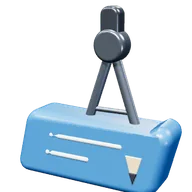
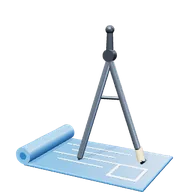
Símbolos modelados en 3D real: laptop, compás sobre plano, corbata, campana de Gauss, palmera en isla y casa

diff --git a/datos/simbolos3d/render.html b/datos/simbolos3d/render.html
@@ -1,0 +1,79 @@
+<!doctype html><meta charset="utf-8">
+<body style="margin:0;background:transparent">
+<script type="importmap">{"imports":{"three":"./node_modules/three/build/three.module.js","three/addons/":"./node_modules/three/examples/jsm/"}}</script>
+<script type="module">
+import * as THREE from 'three';
+import {SVGLoader} from 'three/addons/loaders/SVGLoader.js';
+import {RoomEnvironment} from 'three/addons/environments/RoomEnvironment.js';
+import {MODELS,kit} from './models.js';
+const SZ=320;
+const renderer=new THREE.WebGLRenderer({antialias:true,alpha:true,preserveDrawingBuffer:true});
+renderer.setPixelRatio(1);renderer.setSize(SZ,SZ);renderer.setClearColor(0x000000,0);
+renderer.outputColorSpace=THREE.SRGBColorSpace;renderer.toneMapping=THREE.ACESFilmicToneMapping;renderer.toneMappingExposure=1.25;
+renderer.shadowMap.enabled=true;renderer.shadowMap.type=THREE.PCFSoftShadowMap;
+document.body.appendChild(renderer.domElement);
+const scene=new THREE.Scene();
+const pm=new THREE.PMREMGenerator(renderer);scene.environment=pm.fromScene(new RoomEnvironment(),0.04).texture;
+const key=new THREE.DirectionalLight(0xffffff,2.2);key.position.set(-60,90,120);key.castShadow=true;
+key.shadow.mapSize.set(1024,1024);Object.assign(key.shadow.camera,{left:-80,right:80,top:80,bottom:-80,near:1,far:400});key.shadow.bias=-0.0008;key.shadow.radius=4;
+scene.add(key);scene.add(new THREE.HemisphereLight(0xffffff,0x8a7a6a,0.7));
+const rim=new THREE.DirectionalLight(0xbfd8ff,0.8);rim.position.set(80,-40,60);scene.add(rim);
+const cam=new THREE.PerspectiveCamera(26,1,1,1000);
+const loader=new SVGLoader();
+function material(col,m){const c=new THREE.Color(col);
+ const hsl={};c.getHSL(hsl);if(m==='gold'||m==='metal'&&hsl.s>0.4&&hsl.h>0.08&&hsl.h<0.17)return new THREE.MeshPhysicalMaterial({color:new THREE.Color().setHSL(0.115,0.95,0.55),metalness:0.5,roughness:0.22,clearcoat:0.5,envMapIntensity:1.1,emissive:new THREE.Color(0x4a2e00),emissiveIntensity:0.5});
+ if(m==='metal')return new THREE.MeshPhysicalMaterial({color:c,metalness:0.85,roughness:0.22,clearcoat:0.3,envMapIntensity:1.3});
+ if(m==='glass')return new THREE.MeshPhysicalMaterial({color:c,metalness:0,roughness:0.06,transmission:0.75,thickness:6,ior:1.45,transparent:true,opacity:0.92,envMapIntensity:1.4});
+ if(m==='wood')return new THREE.MeshStandardMaterial({color:c,roughness:0.62,metalness:0});
+ return new THREE.MeshPhysicalMaterial({color:c,roughness:0.32,metalness:0,clearcoat:0.55,clearcoatRoughness:0.25});}
+function shapesOf(d,t){const svg='<svg xmlns="http://www.w3.org/2000/svg"><path d="'+d+'"'+(t?' transform="'+t+'"':'')+'/></svg>';const data=loader.parse(svg);const out=[];data.paths.forEach(p=>{SVGLoader.createShapes(p).forEach(s=>out.push(s))});return out}
+function curvesOf(d,t){const svg='<svg xmlns="http://www.w3.org/2000/svg"><path d="'+d+'"'+(t?' transform="'+t+'"':'')+' fill="none" stroke="#000"/></svg>';const data=loader.parse(svg);const out=[];data.paths.forEach(p=>p.subPaths.forEach(sp=>{const pts=sp.getPoints(48);if(pts.length>1)out.push(pts)}));return out}
+function tube(pts,r,z,mat,g){const v=[];for(let i=0;i<pts.length;i++){const a=pts[i];if(i&&a.distanceTo(pts[i-1])<0.05)continue;v.push(new THREE.Vector3(a.x,a.y,z))}
+ if(v.length<2)return;const path=new THREE.CatmullRomCurve3(v,false,'catmullrom',0.05);
+ const geo=new THREE.TubeGeometry(path,Math.max(8,v.length*3),r,16,false);const m=new THREE.Mesh(geo,mat);m.castShadow=m.receiveShadow=true;g.add(m);
+ [v[0],v[v.length-1]].forEach(p=>{const s=new THREE.Mesh(new THREE.SphereGeometry(r,16,12),mat);s.position.copy(p);s.castShadow=true;g.add(s)})}
+function inPoly(pt,poly){let c=false;for(let i=0,j=poly.length-1;i<poly.length;j=i++){const a=poly[i],b=poly[j];if(((a.y>pt.y)!=(b.y>pt.y))&&(pt.x<(b.x-a.x)*(pt.y-a.y)/(b.y-a.y)+a.x))c=!c}return c}
+function fracIn(pts,P){let n=0;pts.forEach(q=>{if(P.polys.some(pl=>inPoly(q,pl)))n++});return n/Math.max(1,pts.length)}
+window.renderSym=function(parts,mats,yaw,pitch,key){
+ for(let i=scene.children.length-1;i>=0;i--){const o=scene.children[i];if(o.userData.sym)scene.remove(o)}
+ const g=new THREE.Group();g.userData.sym=1;
+ if(key&&MODELS[key]){MODELS[key](kit(material,g));return finish(g,yaw,pitch)}
+ const prev=[];
+ const findParent=(pts)=>{for(let q=prev.length-1;q>=0;q--){if(fracIn(pts,prev[q])>0.8)return prev[q]}return null};
+ const decal=(par,mk)=>{mk(par.front-0.7,false);mk(-par.front-0.6,true)};
+ parts.forEach((p,i)=>{const m=mats[i];
+  if(p.d){const mat=material(p.c,m);const shp=shapesOf(p.d,p.t);const pts=[];const polys=[];shp.forEach(s=>{const sp=s.getPoints(40);polys.push(sp);sp.forEach(q=>pts.push(q))});
+   const pb=new THREE.Box2().setFromPoints(pts);const pa=Math.max(1,(pb.max.x-pb.min.x)*(pb.max.y-pb.min.y));
+   const par=findParent(pts.filter((q,k)=>k%3==0));let front=0;
+   shp.forEach(s=>{const sp=s.getPoints(48);let per=0;for(let k=0;k<sp.length;k++)per+=sp[k].distanceTo(sp[(k+1)%sp.length]);const ar=Math.abs(THREE.ShapeUtils.area(sp));const inr=2*ar/Math.max(per,1);
+    if(par&&par.a>pa*1.3){const bt=Math.min(2.2,Math.max(1,inr*0.3)),bs=Math.min(1.2,Math.max(0.4,inr*0.2)),dep=1.2;
+     [1,-1].forEach(sg=>{const geo=new THREE.ExtrudeGeometry(s,{depth:dep,bevelEnabled:true,bevelThickness:bt,bevelSize:bs,bevelOffset:-bs*0.25,bevelSegments:8,curveSegments:36});const mesh=new THREE.Mesh(geo,mat);
+      if(sg>0)mesh.position.z=par.front-1.6;else{mesh.scale.z=-1;mesh.position.z=-(par.front-1.6);mesh.scale.x=-1;mesh.position.x=(pb.min.x+pb.max.x)}mesh.castShadow=mesh.receiveShadow=true;g.add(mesh)});
+     front=Math.max(front,par.front-1.6+dep+bt)}
+    else{let bs=Math.max(0.5,Math.min(5,inr*0.3)),bt=Math.max(1.4,Math.min(7,inr*0.5)),dep=Math.max(3,Math.min(12,inr*0.7));
+     let need=0;prev.forEach(o=>{const ix=Math.max(0,Math.min(o.b.max.x,pb.max.x)-Math.max(o.b.min.x,pb.min.x)),iy=Math.max(0,Math.min(o.b.max.y,pb.max.y)-Math.max(o.b.min.y,pb.min.y));if(ix*iy>pa*0.25)need=Math.max(need,o.front+1.2)});
+     if(need>dep/2+bt)dep=Math.min(2*(need-bt),40);
+     const geo=new THREE.ExtrudeGeometry(s,{depth:dep,bevelEnabled:true,bevelThickness:bt,bevelSize:bs,bevelOffset:-bs*0.25,bevelSegments:12,curveSegments:36});
+     const mesh=new THREE.Mesh(geo,mat);mesh.position.z=-dep/2;mesh.castShadow=mesh.receiveShadow=true;g.add(mesh);front=Math.max(front,dep/2+bt)}});
+   const cx=(pb.min.x+pb.max.x)/2;const mir=pts.filter((q,k)=>k%2==0).map(q=>new THREE.Vector2(2*cx-q.x,q.y));const sym=fracIn(mir,{polys:polys})>0.93;prev.push({b:pb,a:pa,front:front,polys:polys,cx:cx,sym:sym,n:0})}
+  else if(p.l){const mat=material(p.c,m);curvesOf(p.l,p.t).forEach(pts=>{const par=findParent(pts.filter((q,k)=>k%2==0));
+    if(par)decal(par,(z,back)=>tube(back?(()=>{const xs=pts.map(q=>q.x),dc=(Math.min(...xs)+Math.max(...xs))/2;return pts.map(q=>new THREE.Vector2(2*dc-q.x,q.y))})():pts,p.w/2,back?z+0.6-p.w*0.2:z+p.w*0.2,mat,g));else tube(pts,p.w/2,0,mat,g)})}
+  else if(p.x){const mat=material(p.c,'plastic');
+   if(p.w){const CV=curvesOf(p.x,p.t);let mnx=1e9,mxx=-1e9;CV.forEach(c=>c.forEach(q=>{mnx=Math.min(mnx,q.x);mxx=Math.max(mxx,q.x)}));const DC0=(mnx+mxx)/2;let DC=DC0,okM=null;CV.forEach(pts=>{const par=findParent(pts.filter((q,k)=>k%2==0))||prev[prev.length-1];if(!par)return;const r=Math.max(0.7,p.w/2);
+     const off=par.n*0.35;par.n++;tube(pts,r,par.front-r*0.35+off,mat,g);if(okM===null){const all=[];CV.forEach(c=>c.forEach((q,k)=>{if(k%2==0)all.push(new THREE.Vector2(2*DC0-q.x,q.y))}));okM=fracIn(all,par)>0.9}const bp=okM?pts.map(q=>new THREE.Vector2(2*DC-q.x,q.y)):pts;tube(bp,r,-(par.front-r*0.35+off),mat,g)})}
+   else{const XS=shapesOf(p.x,p.t);const xb=new THREE.Box2();XS.forEach(s=>xb.union(new THREE.Box2().setFromPoints(s.getPoints(20))));const DCX=(xb.min.x+xb.max.x)/2;let okX=null;XS.forEach(s=>{const sp=s.getPoints(30);const par=findParent(sp)||prev[prev.length-1];if(!par)return;
+     const off=par.n*0.45;par.n++;[1,-1].forEach(sg=>{const geo=new THREE.ExtrudeGeometry(s,{depth:0.8,bevelEnabled:true,bevelThickness:0.5,bevelSize:0.4,bevelOffset:-0.4,bevelSegments:3,curveSegments:24});const mesh=new THREE.Mesh(geo,mat);
+      if(sg>0)mesh.position.z=par.front-0.9+off;else{mesh.scale.z=-1;mesh.position.z=-(par.front-0.9+off);if(okX===null){const all=[];XS.forEach(t=>t.getPoints(16).forEach(q=>all.push(new THREE.Vector2(2*DCX-q.x,q.y))));okX=fracIn(all,par)>0.9}if(okX){mesh.scale.x=-1;mesh.position.x=2*DCX}}mesh.castShadow=true;g.add(mesh)})})}}
+ });
+ g.scale.y=-1;
+ return finish(g,yaw,pitch)};
+function finish(g,yaw,pitch){
+ const box=new THREE.Box3().setFromObject(g);const c=box.getCenter(new THREE.Vector3());g.position.sub(c);
+ const pivot=new THREE.Group();pivot.userData.sym=1;pivot.add(g);pivot.rotation.set(pitch==null?0.24:pitch,yaw==null?-0.48:yaw,0);scene.add(pivot);
+ const b2=new THREE.Box3().setFromObject(g);const sz=b2.getSize(new THREE.Vector3());const r=Math.max(Math.max(sz.x,sz.y,sz.z)*0.5,sz.length()*0.42)+3;
+ const dist=r/Math.tan(THREE.MathUtils.degToRad(13));cam.position.set(0,0,dist);cam.lookAt(0,0,0);cam.near=dist/10;cam.far=dist*4;cam.updateProjectionMatrix();
+ key.position.set(-dist*0.45,dist*0.7,dist*0.9);key.target.position.set(0,0,0);scene.add(key.target);
+ renderer.render(scene,cam);return renderer.domElement.toDataURL('image/png')}
+window.MODELS=MODELS;
+window.ready=true;
+</script>

diff --git a/datos/simbolos3d/models.js b/datos/simbolos3d/models.js
@@ -1,0 +1,121 @@
+// Modelos 3D completos de los símbolos: cada objeto armado con piezas reales (cajas redondeadas, cilindros,
+// esferas, tornos, tubos y extrusiones) para que se vea bien desde cualquier ángulo.
+// Coordenadas: x a la derecha, y arriba, z hacia la cámara. Tamaño aproximado 100.
+import * as THREE from 'three';
+import {RoundedBoxGeometry} from 'three/addons/geometries/RoundedBoxGeometry.js';
+import {SVGLoader} from 'three/addons/loaders/SVGLoader.js';
+
+export function kit(material,g){
+  const M=(c,m)=>material(c,m||'plastic');
+  const add=(geo,c,m,o)=>{o=o||{};const mesh=new THREE.Mesh(geo,M(c,m));
+    if(o.p)mesh.position.set(...o.p);if(o.r)mesh.rotation.set(...o.r.map(a=>a*Math.PI/180));if(o.s)mesh.scale.set(...o.s);
+    mesh.castShadow=mesh.receiveShadow=true;(o.parent||g).add(mesh);return mesh};
+  const K={
+    group(o){o=o||{};const q=new THREE.Group();if(o.p)q.position.set(...o.p);if(o.r)q.rotation.set(...o.r.map(a=>a*Math.PI/180));(o.parent||g).add(q);return q},
+    box(w,h,d,c,o){o=o||{};const r=o.rad==null?Math.min(w,h,d)*0.18:o.rad;return add(new RoundedBoxGeometry(w,h,d,4,Math.max(0.01,Math.min(r,Math.min(w,h,d)/2-0.01))),c,o.m,o)},
+    cyl(rt,rb,h,c,o){o=o||{};return add(new THREE.CylinderGeometry(rt,rb,h,o.seg||40,1,!!o.open),c,o.m,o)},
+    sph(r,c,o){o=o||{};return add(new THREE.SphereGeometry(r,40,28),c,o.m,o)},
+    tor(R,r,c,o){o=o||{};return add(new THREE.TorusGeometry(R,r,20,56,o.arc?o.arc*Math.PI/180:Math.PI*2),c,o.m,o)},
+    cone(r,h,c,o){o=o||{};return add(new THREE.ConeGeometry(r,h,o.seg||32),c,o.m,o)},
+    lathe(pts,c,o){o=o||{};return add(new THREE.LatheGeometry(pts.map(p=>new THREE.Vector2(p[0],p[1])),56),c,o.m,o)},
+    tube(pts,r,c,o){o=o||{};const v=pts.map(p=>new THREE.Vector3(p[0],p[1],p[2]||0));const path=new THREE.CatmullRomCurve3(v,!!o.closed,'catmullrom',o.tension==null?0.5:o.tension);
+      const m=add(new THREE.TubeGeometry(path,Math.max(24,v.length*12),r,18,!!o.closed),c,o.m,o);
+      if(!o.closed&&!o.nocap)[v[0],v[v.length-1]].forEach(p=>add(new THREE.SphereGeometry(r,18,12),c,o.m,{p:[p.x,p.y,p.z],parent:o.parent}));return m},
+    // extrusión de un contorno 2D (en coordenadas con y hacia arriba), centrada en z
+    ext(d,depth,c,o){o=o||{};const data=new SVGLoader().parse('<svg xmlns="http://www.w3.org/2000/svg"><path transform="scale(1,-1)" d="'+d+'"/></svg>');const shapes=[];data.paths.forEach(p=>SVGLoader.createShapes(p).forEach(s=>shapes.push(s)));
+      const bv=o.bevel==null?Math.min(2,depth*0.3):o.bevel;
+      const geo=new THREE.ExtrudeGeometry(shapes,{depth:depth,bevelEnabled:bv>0,bevelThickness:bv,bevelSize:bv*0.8,bevelSegments:6,curveSegments:32});
+      geo.translate(0,0,-depth/2);if(o.center){geo.computeBoundingBox();const b=geo.boundingBox;geo.translate(-(b.min.x+b.max.x)/2,-(b.min.y+b.max.y)/2,0)}
+      return add(geo,c,o.m,o)},
+  };
+  return K;
+}
+
+const GY='#8C96A0',ST='#A9B6C2',BK='#3A4048',WH='#F3F1EA',RE='#DE4A3C',BL='#3F82C4',GR='#4FAE5B',YE='#F6CD3B',BR='#8A5A36',WO='#B9804B',GO='#E8B53C',NA='#2D4A6E',CR='#F0E2C2',SK='#E7A97C';
+
+export const MODELS={
+  // Laptop: base con teclado y touchpad; pantalla inclinada con bisagra y código; tapa trasera con logo
+  'computacion.b'(K){
+    K.box(70,5,46,'#A9B6C2',{m:'metal',p:[0,0,0],rad:2});
+    const kb=K.group({p:[0,2.6,-4]});
+    for(let r=0;r<4;r++)for(let c=0;c<11;c++)K.box(4.6,1.2,4.2,'#3A4048',{p:[-27.5+c*5.5,0,-9+r*5.6],rad:0.6,parent:kb});
+    K.box(30,1.4,4.2,'#3A4048',{p:[0,0,13.4],rad:0.6,parent:kb});
+    K.box(20,0.6,10,'#8C96A0',{m:'metal',p:[0,2.6,17],rad:1});
+    const lid=K.group({p:[0,1.5,-22],r:[-14,0,0]});
+    K.cyl(2,2,56,'#8C96A0',{m:'metal',r:[0,0,90],parent:lid});
+    K.box(70,46,3,'#3A4048',{p:[0,24,0],rad:1.4,parent:lid});
+    K.box(62,38,0.6,'#13283B',{p:[0,25,1.5],rad:0.3,parent:lid});
+    const code=K.group({p:[0,25,2.1],parent:lid});
+    K.tube([[-12,7,0],[-20,0,0],[-12,-7,0]],1.3,'#5BE07A',{tension:0,parent:code});
+    K.tube([[12,7,0],[20,0,0],[12,-7,0]],1.3,'#5BE07A',{tension:0,parent:code});
+    K.tube([[4,9,0],[-4,-9,0]],1.3,YE,{parent:code});
+    K.cyl(4,4,0.8,'#C9D0D6',{m:'metal',p:[0,24,-1.8],r:[90,0,0],parent:lid});
+  },
+  // Compás de dibujo sobre un plano enrollado a medias
+  'arquitectura.a'(K){
+    K.box(74,1.6,50,'#3F82C4',{p:[0,0,0],rad:0.6});
+    [-14,-6,2,10].forEach((z,i)=>K.box(i%2?30:46,0.4,1.2,'#EAF4FB',{p:[-8,1,z],rad:0.2}));
+    K.box(18,0.4,18,'#EAF4FB',{p:[22,1,10],rad:0.2});K.box(14,0.5,14,'#3F82C4',{p:[22,1.1,10],rad:0.2});
+    K.cyl(5,5,50,'#5B9BD8',{p:[-37,5,0],r:[90,0,0]});K.cyl(2.2,2.2,50.4,'#2C6AA8',{p:[-37,5,0],r:[90,0,0]});
+    const c=K.group({p:[6,1,0]});
+    K.cyl(3.4,3.4,4,'#8C96A0',{m:'metal',p:[0,62,0],r:[90,0,0],parent:c});
+    K.cyl(1.6,2,10,'#3A4048',{p:[0,70,0],parent:c});K.sph(2.4,'#3A4048',{p:[0,76,0],parent:c});
+    K.tube([[0,60,0],[-16,2,6]],1.8,ST,{m:'metal',parent:c});
+    K.cone(1.2,4,'#8C96A0',{m:'metal',p:[-16.6,0,6.2],r:[180,0,15],parent:c});
+    K.tube([[0,60,0],[16,10,-4]],1.8,ST,{m:'metal',parent:c});
+    K.cyl(2.2,2.2,8,'#F2D3A0',{p:[17.3,5.5,-5],r:[0,0,17],parent:c});
+    K.cone(2.2,4,'#3A4048',{p:[18.6,0.8,-5],r:[180,0,17],parent:c});
+    K.tube([[-6,38,1.5],[6,38,-1.5]],0.9,'#5B6670',{m:'metal',parent:c});
+  },
+  // Corbata con nudo, cuello de camisa y franjas en ambas caras
+  'negocios.b'(K){
+    const tie='M-9 -14 L9 -14 L14 50 L0 66 L-14 50 Z';
+    K.ext(tie,6,RE,{bevel:1.6});
+    K.ext('M-10 -26 L10 -26 L7 -12 L-7 -12 Z',9,'#C23B30',{bevel:2});
+    [[0,4,12],[0,20,17],[0,36,21]].forEach(([x,y,w])=>{[4.9,-4.9].forEach(z=>K.box(w,3.6,0.9,NA,{p:[x,-y,z],r:[0,0,-30],rad:0.3}))});
+    K.ext('M-12 -30 L-30 -36 L-20 -16 L-8 -22 Z',3,WH,{bevel:1,p:[0,0,3],r:[0,-18,0]});
+    K.ext('M12 -30 L30 -36 L20 -16 L8 -22 Z',3,WH,{bevel:1,p:[0,0,3],r:[0,18,0]});
+  },
+  // Campana de Gauss: superficie con volumen sobre una base con ejes y marcas de desviación
+  'actuaria.b'(K){
+    K.box(90,4,30,'#E9EEF2',{p:[0,-2,0],rad:1.2});
+    const pts=[];for(let i=0;i<=40;i++){const x=-40+i*2;pts.push([x,46*Math.exp(-(x*x)/(2*13*13))])}
+    const d='M-40 0 '+pts.map(p=>'L'+p[0]+' '+(-p[1]).toFixed(2)).join(' ')+' L40 0 Z';
+    K.ext(d,14,BL,{bevel:1.4});
+    [-13,0,13].forEach(x=>{const h=46*Math.exp(-(x*x)/338);[8.1,-8.1].forEach(z=>K.box(x?1.4:2,h,0.6,x?'#1F4E7A':'#FFFFFF',{p:[x,h/2,z],rad:0.2}))});
+    K.box(84,1.2,1.2,'#3A4048',{p:[0,0.6,15],rad:0.4});
+  },
+  // Palmera en isla: tronco curvo con anillos, hojas con folíolos en todas direcciones, cocos, arena y agua
+  'turismo.b'(K){
+    K.cyl(38,38,3,'#5FB4E8',{p:[0,-4,0],seg:56});
+    K.sph(30,'#F3D98A',{p:[0,-4,0],s:[1,0.3,0.8]});
+    const T=[[0,2,0],[3,20,0],[8,38,2],[14,56,3]];
+    K.tube(T,4,'#9A6A3E',{});
+    const curve=new THREE.CatmullRomCurve3(T.map(p=>new THREE.Vector3(...p)));
+    for(let i=1;i<10;i++){const p=curve.getPoint(i/10);K.tor(4.2,0.9,'#7A4E26',{p:[p.x,p.y,p.z],r:[90,0,0]})}
+    const top=[14,57,3];
+    for(let k=0;k<7;k++){const a=k*360/7+10;const q=K.group({p:top,r:[0,a,0]});
+      const sp=[[0,0,0],[12,3,0],[24,0,0],[34,-8,0],[40,-16,0]];
+      K.tube(sp,0.9,'#2F7F3E',{parent:q,nocap:true});
+      const crv=new THREE.CatmullRomCurve3(sp.map(v=>new THREE.Vector3(...v)));
+      for(let j=1;j<14;j++){const t=j/14,pt=crv.getPoint(t),tg=crv.getTangent(t);const len=9*Math.sin(Math.PI*Math.min(1,t*1.1))+2;
+        [1,-1].forEach(sd=>{const fz=sd*len;const tip=[pt.x+tg.x*4,pt.y-len*0.45,pt.z+fz];K.tube([[pt.x,pt.y,pt.z],[(pt.x+tip[0])/2,pt.y-len*0.15,pt.z+fz*0.55],tip],0.9,'#4FAE5B',{parent:q,nocap:true})})}}
+    [[11,53,6],[17,52,7],[14,52,-1]].forEach(p=>K.sph(3.6,'#6B4423',{p}));
+  },
+  // Casa con techo de dos aguas, chimenea, puerta, ventanas en frente y costados, y corazón
+  'trabajosocial.b'(K){
+    K.box(50,36,40,CR,{p:[0,18,0],rad:1.2});
+    const gable='M-25 0 L25 0 L0 -22 Z';
+    [20.2,-20.2].forEach(z=>K.ext(gable,0.8,CR,{bevel:0,p:[0,36,z]}));
+    const L=Math.hypot(30,24.5),A=Math.atan2(24.5,30)*180/Math.PI;
+    K.box(L,2.6,48,RE,{p:[-15,46.3,0],r:[0,0,A],rad:0.8});
+    K.box(L,2.6,48,RE,{p:[15,46.3,0],r:[0,0,-A],rad:0.8});
+    K.cyl(2.2,2.2,49,'#C23B30',{p:[0,58.5,0],r:[90,0,0]});
+    K.box(7,16,7,'#9A3A2E',{p:[14,55,-8],rad:0.8});
+    K.box(14,22,1.6,'#8A5A36',{p:[9,11,20.4],rad:0.6});K.sph(1,GO,{m:'metal',p:[13,11,21.4]});
+    K.box(13,11,1,'#AEE0F2',{p:[-12,25,20.3],rad:0.4});K.box(13,1,1.6,'#FFFFFF',{p:[-12,25,20.6],rad:0.3});K.box(1,11,1.6,'#FFFFFF',{p:[-12,25,20.6],rad:0.3});
+    [25.3,-25.3].forEach(x=>{K.box(1,11,13,'#AEE0F2',{p:[x,24,0],rad:0.4});K.box(1.6,1,13,'#FFFFFF',{p:[x,24,0],rad:0.3});K.box(1.6,11,1,'#FFFFFF',{p:[x,24,0],rad:0.3})});
+    K.box(13,11,1,'#AEE0F2',{p:[0,25,-20.3],rad:0.4});K.box(13,1,1.6,'#FFFFFF',{p:[0,25,-20.6],rad:0.3});K.box(1,11,1.6,'#FFFFFF',{p:[0,25,-20.6],rad:0.3});
+    K.ext('M0 6 C-8 0 -10 -4 -8 -7 C-6 -10 -2 -9 0 -6 C2 -9 6 -10 8 -7 C10 -4 8 0 0 6 Z',2.4,RE,{bevel:0.8,p:[-12,12,21]});
+  },
+};
